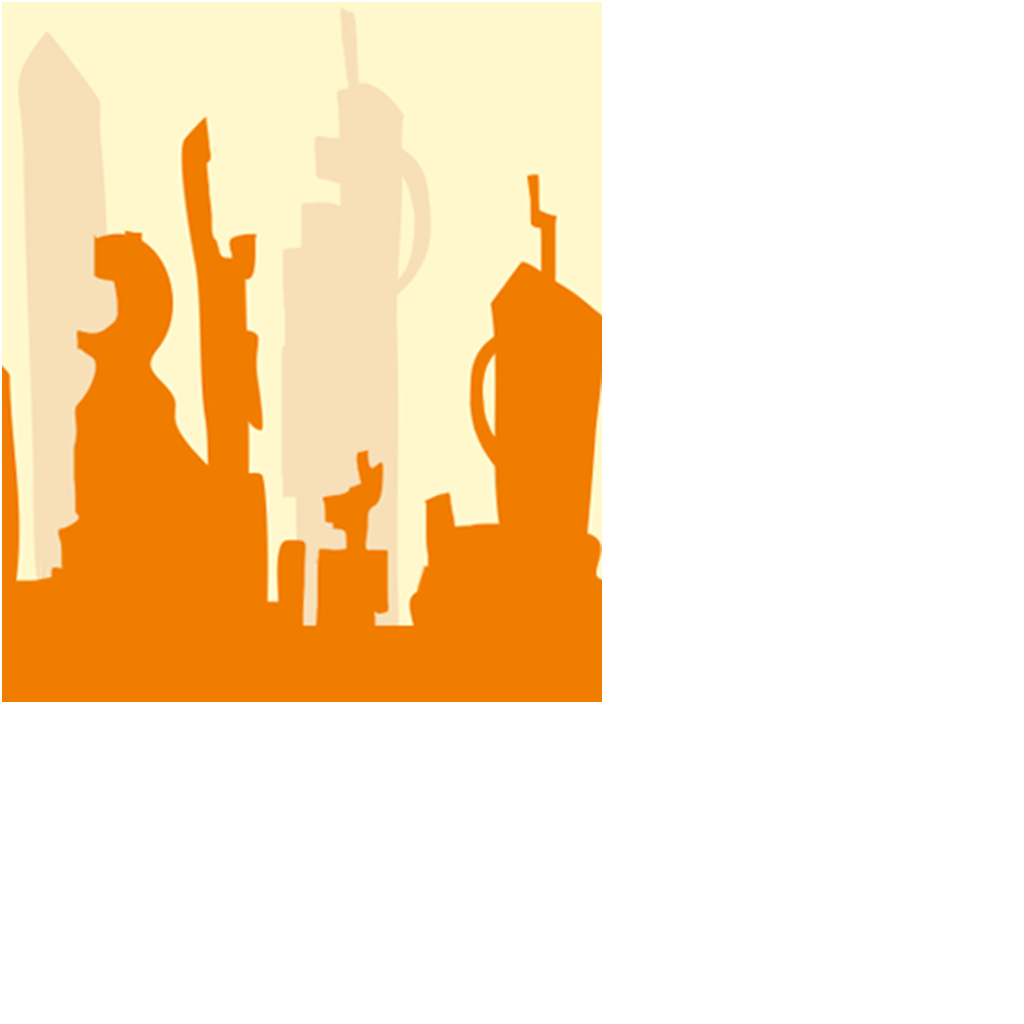
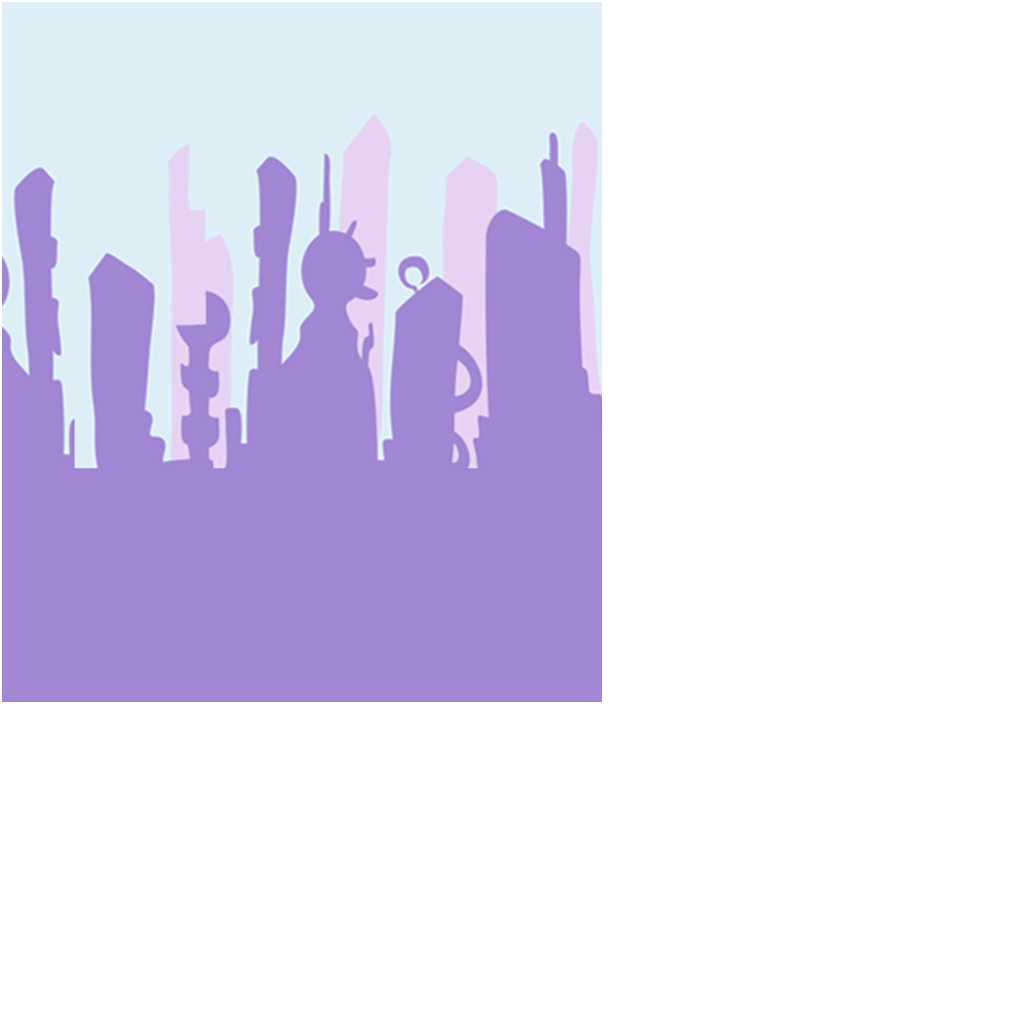
congrats screen

diff --git a/core/src/main/java/ceta/game/screens/CongratulationsScreen.java b/core/src/main/java/ceta/game/screens/CongratulationsScreen.java
@@ -15,12 +15,9 @@ import com.badlogic.gdx.graphics.g2d.BitmapFont;
 import com.badlogic.gdx.math.Interpolation;
 import com.badlogic.gdx.scenes.scene2d.Actor;
 import com.badlogic.gdx.scenes.scene2d.Stage;
-import com.badlogic.gdx.scenes.scene2d.ui.Image;
-import com.badlogic.gdx.scenes.scene2d.ui.Skin;
-import com.badlogic.gdx.scenes.scene2d.ui.TextButton;
+import com.badlogic.gdx.scenes.scene2d.ui.*;
 import com.badlogic.gdx.scenes.scene2d.utils.ChangeListener;
 import com.badlogic.gdx.utils.viewport.FitViewport;
-import com.badlogic.gdx.scenes.scene2d.ui.Table;
 
 import static com.badlogic.gdx.scenes.scene2d.actions.Actions.*;
 import static com.badlogic.gdx.scenes.scene2d.actions.Actions.alpha;
@@ -30,11 +27,12 @@ import static com.badlogic.gdx.scenes.scene2d.actions.Actions.scaleTo;
  * Created by ewe on 9/21/16.
  */
 public class CongratulationsScreen extends AbstractGameScreen {
-    private static final String TAG = MenuScreen.class.getName();
-    private Skin skin;
+    private static final String TAG = CongratulationsScreen.class.getName();
 
-    private TextButton btnStartGame;
+
+    private ImageButton btnStartGame;
     private Image imgBackground;
+    private Image congrats;
 
 
     public CongratulationsScreen(DirectedGame game) {
@@ -70,7 +68,7 @@ public class CongratulationsScreen extends AbstractGameScreen {
     public void hide (){
 
         stage.dispose();
-        skin.dispose();
+
     };
     public void pause (){};
 
@@ -83,10 +81,18 @@ public class CongratulationsScreen extends AbstractGameScreen {
     private Table buildBackgroundLayer () {
         Table layer = new Table();
         imgBackground = new Image(Assets.instance.finishBackGround.finishBack);
+        congrats = new Image(Assets.instance.finishBackGround.excelentWork);
+
         layer.addActor(imgBackground);
         imgBackground.setOrigin(imgBackground.getWidth() / 2, imgBackground.getHeight() / 2);
-        imgBackground.setPosition(0,300);
-        imgBackground.addAction(sequence(
+        imgBackground.setPosition((Constants.VIEWPORT_WIDTH-imgBackground.getWidth())/2,
+                0);
+        //imgBackground.setHeight(Constants.VIEWPORT_HEIGHT/2);
+
+        layer.addActor(congrats);
+        congrats.setOrigin(congrats.getWidth() / 2, congrats.getHeight() / 2);
+        congrats.setPosition(0,400);
+        congrats.addAction(sequence(
                 scaleTo(0, 0),
                 delay(0.3f),
                 parallel(moveBy(0, 100, 1.5f, Interpolation.swingOut),
@@ -97,27 +103,8 @@ public class CongratulationsScreen extends AbstractGameScreen {
 
     private Table buildPlayMenu () {
         /// ------------------ start -- just to create a simple button!! what a caos!!
-        skin = new Skin();
-        // Generate a 1x1 white texture and store it in the skin named "white".
-        Pixmap pixmap = new Pixmap(140, 70, Pixmap.Format.RGBA8888);
-        pixmap.setColor(Color.BLUE);
-        pixmap.fill();
-        skin.add("white", new Texture(pixmap));
-        // Store the default libgdx font under the name "default".
-        BitmapFont bfont=new BitmapFont();
-        bfont.getData().scale(1.5f);
 
-        skin.add("default",bfont);
-        // Configure a TextButtonStyle and name it "default". Skin resources are stored by type, so this doesn't overwrite the font.
-        TextButton.TextButtonStyle textButtonStyle = new TextButton.TextButtonStyle();
-        textButtonStyle.up = skin.newDrawable("white", Color.CYAN);
-        textButtonStyle.down = skin.newDrawable("white", Color.CYAN);
-        textButtonStyle.checked = skin.newDrawable("white", Color.WHITE);
-        textButtonStyle.over = skin.newDrawable("white", Color.LIGHT_GRAY);
-        textButtonStyle.font = skin.getFont("default");
-        skin.add("default", textButtonStyle);
-        /// ------------------ end --
-        btnStartGame =new TextButton("JUGAR",textButtonStyle);
+        btnStartGame = new ImageButton(Assets.instance.buttons.playButtonStyle);
 
         Table tbl = new Table();
         //tbl.left().bottom();

diff --git a/core/src/main/java/ceta/game/game/Assets.java b/core/src/main/java/ceta/game/game/Assets.java
@@ -12,8 +12,10 @@ import com.badlogic.gdx.graphics.Texture;
 import com.badlogic.gdx.graphics.g2d.Animation;
 import com.badlogic.gdx.graphics.g2d.BitmapFont;
 import com.badlogic.gdx.graphics.g2d.TextureAtlas;
+import com.badlogic.gdx.scenes.scene2d.ui.ImageButton;
 import com.badlogic.gdx.scenes.scene2d.ui.Skin;
 import com.badlogic.gdx.scenes.scene2d.utils.Drawable;
+import com.badlogic.gdx.scenes.scene2d.utils.TextureRegionDrawable;
 import com.badlogic.gdx.utils.Array;
 import com.badlogic.gdx.utils.Disposable;
 
@@ -43,6 +45,7 @@ public class Assets implements Disposable, AssetErrorListener {
 
     public AssetFinishBackground finishBackGround;
     public AssetMenu menu;
+    public AssetButtons buttons;
 
     // singleton: prevent instantiation from other classes
     private Assets() {
@@ -95,6 +98,7 @@ public class Assets implements Disposable, AssetErrorListener {
 
         finishBackGround = new AssetFinishBackground(atlas);
         menu = new AssetMenu(atlas);
+        buttons = new AssetButtons(atlas);
     }
 
     @Override
@@ -277,11 +281,26 @@ public class Assets implements Disposable, AssetErrorListener {
 
     public class AssetFinishBackground{
         public final TextureAtlas.AtlasRegion finishBack;
+        public final TextureAtlas.AtlasRegion excelentWork;
 
         public AssetFinishBackground(TextureAtlas atlas) {
-            finishBack = atlas.findRegion("excelente");
+            finishBack = atlas.findRegion("engranajes2");
+            excelentWork = atlas.findRegion("excelentetrabajo");
 
         }
+    }
+
+    public class AssetButtons{
+        public final ImageButton.ImageButtonStyle playButtonStyle;
+
+        public  AssetButtons(TextureAtlas atlas) {
+            playButtonStyle = new ImageButton.ImageButtonStyle();  //Instaciate
+            playButtonStyle.up = new TextureRegionDrawable(atlas.findRegion("jugar")); //Set image for not pressed button
+            playButtonStyle.down= new TextureRegionDrawable(atlas.findRegion("jugar2"));  //Set image for pressed
+            playButtonStyle.over= new TextureRegionDrawable(atlas.findRegion("jugar2"));
+
+        }
+
     }
 
     public class AssetSounds {

diff --git a/core/src/main/java/ceta/game/screens/MenuScreen.java b/core/src/main/java/ceta/game/screens/MenuScreen.java
@@ -129,7 +129,7 @@ public class MenuScreen extends AbstractGameScreen {
 
         //layer.pad(100, 0, 0, 10);
 
-        btnMenuPlay = new ImageButton(new TextureRegionDrawable(Assets.instance.menu.play)); // TODO should be resolved in ui-skin...
+        btnMenuPlay = new ImageButton(Assets.instance.buttons.playButtonStyle); // TODO should be resolved in ui-skin...
        // table.add (btnB).size (150, 200);
         layer.add(btnMenuPlay).size(88,60).padBottom(10);
         btnMenuPlay.addListener(new ChangeListener() {
